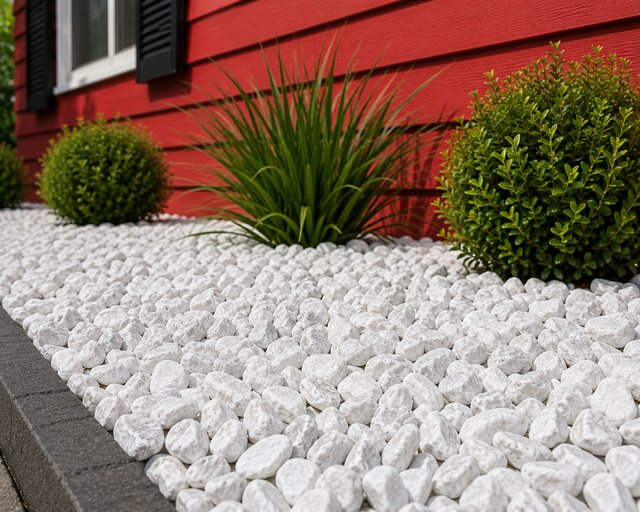
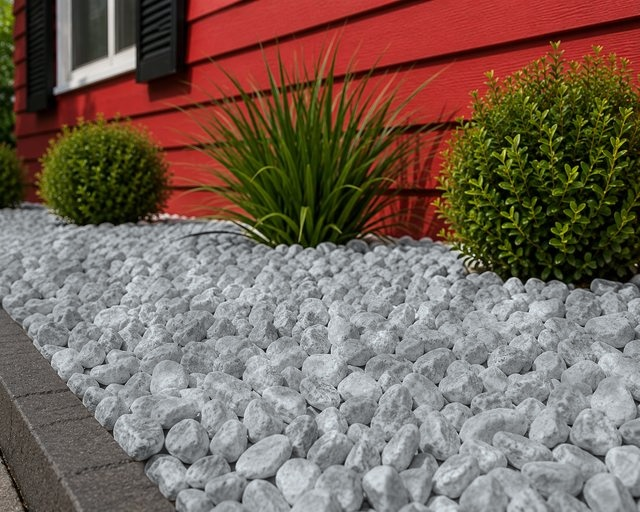
Hide trade prices from public pages; more realistic Ice pebble photo
Claude-Session: https://claude.ai/code/session_016GYj6wWWBFGdUQX8Qo2RUJ

diff --git a/public/trade.html b/public/trade.html
@@ -56,7 +56,7 @@
   <div class="tr-why">
     <h2>Why trade with <span>ADV</span></h2>
     <ul>
-      <li><b>Trade prices</b> on mulch, pebbles, sand, toppings, compost and firewood. Save up to $36 per m³.</li>
+      <li><b>Trade prices</b> on mulch, pebbles, sand, toppings, compost and firewood.</li>
       <li><b>Six trucks</b> running loads across 111 suburbs, with split trays for two materials per load.</li>
       <li><b>One call for big jobs.</b> Multi-unit sites and estates booked as one order.</li>
       <li><b>Talk to the yard.</b> <a href="tel:0397996399">(03) 9799 6399</a>, 320 Hallam Rd, Hampton Park.</li>
@@ -65,11 +65,10 @@
   </div>
 </div></section>
 <section class="tr-prices"><div class="tr-wrap">
-  <div class="tr-ph"><h2>Trade <span>price list</span></h2><span class="tr-pill">Prices include GST</span></div>
-  <div class="tr-table"><table>
-    <thead><tr><th>Product</th><th>Range</th><th class="r">Retail</th><th class="r">Trade</th><th class="r">You save</th></tr></thead>
-    <tbody><tr><td><b>Pine Bark - Blended Mulch</b></td><td class="tr-cat">Mulch</td><td class="r"><s>$98</s></td><td class="r"><b class="tp">$89</b> <small>per m³</small></td><td class="r"><span class="sv">$9</span></td></tr><tr><td><b>Playground Mulch</b></td><td class="tr-cat">Mulch</td><td class="r"><s>$115</s></td><td class="r"><b class="tp">$97.50</b> <small>per m³</small></td><td class="r"><span class="sv">$17.50</span></td></tr><tr><td><b>Redwood Mulch</b></td><td class="tr-cat">Mulch</td><td class="r"><s>$77.50</s></td><td class="r"><b class="tp">$67</b> <small>per m³</small></td><td class="r"><span class="sv">$10.50</span></td></tr><tr><td><b>Tree Mulch</b></td><td class="tr-cat">Mulch</td><td class="r"><s>$35</s></td><td class="r"><b class="tp">$25</b> <small>per m³</small></td><td class="r"><span class="sv">$10</span></td></tr><tr><td><b>Flat River 20-40mm</b></td><td class="tr-cat">Pebbles</td><td class="r"><s>$190</s></td><td class="r"><b class="tp">$180</b> <small>per m³</small></td><td class="r"><span class="sv">$10</span></td></tr><tr><td><b>Flat River Oversize</b></td><td class="tr-cat">Pebbles</td><td class="r"><s>$190</s></td><td class="r"><b class="tp">$180</b> <small>per m³</small></td><td class="r"><span class="sv">$10</span></td></tr><tr><td><b>Ocean Pearl 20-40mm</b></td><td class="tr-cat">Pebbles</td><td class="r"><s>$166</s></td><td class="r"><b class="tp">$149</b> <small>per m³</small></td><td class="r"><span class="sv">$17</span></td></tr><tr><td><b>Ocean Pearl 20mm</b></td><td class="tr-cat">Pebbles</td><td class="r"><s>$166</s></td><td class="r"><b class="tp">$149</b> <small>per m³</small></td><td class="r"><span class="sv">$17</span></td></tr><tr><td><b>Luna Pebbles 20-40mm</b></td><td class="tr-cat">Toppings</td><td class="r"><s>$140</s></td><td class="r"><b class="tp">$132</b> <small>per m³</small></td><td class="r"><span class="sv">$8</span></td></tr><tr><td><b>Quarter Minus 7mm</b></td><td class="tr-cat">Toppings</td><td class="r"><s>$135</s></td><td class="r"><b class="tp">$99</b> <small>per m³</small></td><td class="r"><span class="sv">$36</span></td></tr><tr><td><b>Organic Compost</b></td><td class="tr-cat">Compost &amp; Soil</td><td class="r"><s>$67.50</s></td><td class="r"><b class="tp">$50</b> <small>per m³</small></td><td class="r"><span class="sv">$17.50</span></td></tr><tr><td><b>White Brick Sand</b></td><td class="tr-cat">Sand</td><td class="r"><s>$122.50</s></td><td class="r"><b class="tp">$106</b> <small>per m³</small></td><td class="r"><span class="sv">$16.50</span></td></tr><tr><td><b>White Washed Sand</b></td><td class="tr-cat">Sand</td><td class="r"><s>$155</s></td><td class="r"><b class="tp">$135</b> <small>per m³</small></td><td class="r"><span class="sv">$20</span></td></tr><tr><td><b>Yellow Brick Sand</b></td><td class="tr-cat">Sand</td><td class="r"><s>$112.50</s></td><td class="r"><b class="tp">$99.50</b> <small>per m³</small></td><td class="r"><span class="sv">$13</span></td></tr><tr><td><b>Redgum Firewood</b></td><td class="tr-cat">Firewood</td><td class="r"><s>$275</s></td><td class="r"><b class="tp">$255</b> <small>per m³</small></td><td class="r"><span class="sv">$20</span></td></tr><tr><td><b>All Rounder Potting Mix 25L (pallet price)</b></td><td class="tr-cat">Bag Products</td><td class="r"><s>$7.95</s></td><td class="r"><b class="tp">$6.95</b> <small>each</small></td><td class="r"><span class="sv">$1</span></td></tr><tr><td><b>Joining Tape 15m</b></td><td class="tr-cat">Accessories</td><td class="r"><s>—</s></td><td class="r"><b class="tp">$65.95</b> <small>each</small></td><td class="r"><span class="sv">Trade only</span></td></tr><tr><td><b>Nails for artificial turf 5kg Pack (165)</b></td><td class="tr-cat">Accessories</td><td class="r"><s>—</s></td><td class="r"><b class="tp">$44.95</b> <small>each</small></td><td class="r"><span class="sv">Trade only</span></td></tr></tbody>
-  </table></div>
+  <div class="tr-lock">
+    <svg viewBox="0 0 24 24" aria-hidden="true"><rect x="4" y="10" width="16" height="11" rx="2"/><path d="M8 10V7a4 4 0 0 1 8 0v3"/></svg>
+    <div><h2>Trade <span>price list</span></h2><p>Trade prices are only shared with approved trade account holders. Apply above and we'll send your price list once your account is set up, or call <a href="tel:0397996399">(03) 9799 6399</a>.</p></div>
+  </div>
 </div></section>
 <section class="dw" id="drivers" aria-label="Drivers wanted"><div class="dw-in">
   <div class="dw-l">

diff --git a/public/index.html b/public/index.html
@@ -194,9 +194,8 @@
   <div class="tr-copy">
     <span class="tr-pill">ADV Trade</span>
     <h2>Trade prices.<br><span>One call.</span></h2>
-    <p>For builders, landscapers, developers and contractors. Open a trade account to see trade pricing on bulk materials and order for every site from one place.</p>
+    <p>For builders, landscapers, developers and contractors. Approved trade accounts get trade pricing on bulk materials and order for every site from one place.</p>
     <ul class="tr-feats"><li><span class="tr-ic"><svg viewBox="0 0 24 24" aria-hidden="true"><path d="M3 12l9-9h8v8l-9 9z"/><circle cx="16" cy="8" r="1.6"/></svg></span><span><b>Trade pricing</b>Lower prices on mulch, pebbles, sand, toppings and more.</span></li><li><span class="tr-ic"><svg viewBox="0 0 24 24" aria-hidden="true"><path d="M2 7h11v9H2zM13 10h4l3 3v3h-7"/><circle cx="6" cy="18" r="1.8"/><circle cx="17" cy="18" r="1.8"/></svg></span><span><b>Split loads</b>Two materials in one truck, one delivery fee per load.</span></li><li><span class="tr-ic"><svg viewBox="0 0 24 24" aria-hidden="true"><path d="M3 3h7v7H3zM14 3h7v7h-7zM3 14h7v7H3zM14 14h7v7h-7z"/></svg></span><span><b>Multi-unit jobs</b>Twelve yards or one: book the whole job in one order.</span></li></ul>
-    <div class="tr-ex"><div><span>Tree Mulch</span><span><s>$35</s><b>$25</b><small>per m³</small></span></div><div><span>Organic Compost</span><span><s>$67.50</s><b>$50</b><small>per m³</small></span></div><div><span>Quarter Minus 7mm</span><span><s>$135</s><b>$99</b><small>per m³</small></span></div></div>
     <div class="tr-cta"><a class="tr-btn" href="/trade.html#apply">Apply for a trade account</a><a class="tr-btn ghost" href="/trade.html#login">Trade log in</a></div>
   </div>
   <div class="tr-anim"><div data-adv-units="1" data-music="/trade/units-music.mp3"></div></div>

diff --git a/public/site.css b/public/site.css
@@ -427,3 +427,7 @@ body{background:#fff}
 @keyframes gcShine{0%{transform:translateX(-120%)}22%,100%{transform:translateX(120%)}}
 .sx-gift .gc.live .gc-card:hover{box-shadow:0 22px 40px rgba(0,0,0,.38)}
 @media(prefers-reduced-motion:reduce){.sx-gift .gc-card{transition:none!important;opacity:1!important}.sx-gift .gc-card::after{display:none}}
+.tr-lock{display:flex;gap:22px;align-items:center;background:#fff;border:3px dashed #1A1A1A;border-radius:14px;padding:26px 30px}
+.tr-lock svg{flex:none;width:54px;height:54px;fill:none;stroke:var(--adv);stroke-width:2.2}
+.tr-lock h2{margin:0 0 6px;font:800 40px/1 var(--cond);text-transform:uppercase}.tr-lock h2 span{color:var(--adv)}
+.tr-lock p{margin:0;font-size:17px;max-width:720px}

diff --git a/tools/pages.py b/tools/pages.py
@@ -276,9 +276,8 @@ TRADE_SECTION = f"""
   <div class="tr-copy">
     <span class="tr-pill">ADV Trade</span>
     <h2>Trade prices.<br><span>One call.</span></h2>
-    <p>For builders, landscapers, developers and contractors. Open a trade account to see trade pricing on bulk materials and order for every site from one place.</p>
+    <p>For builders, landscapers, developers and contractors. Approved trade accounts get trade pricing on bulk materials and order for every site from one place.</p>
     <ul class="tr-feats">{tfeat('tag', 'Trade pricing', 'Lower prices on mulch, pebbles, sand, toppings and more.')}{tfeat('truck', 'Split loads', 'Two materials in one truck, one delivery fee per load.')}{tfeat('grid', 'Multi-unit jobs', 'Twelve yards or one: book the whole job in one order.')}</ul>
-    <div class="tr-ex">{''.join(f'<div><span>{n}</span><span><s>{r}</s><b>{t}</b><small>per m³</small></span></div>' for n, r, t in TEX)}</div>
     <div class="tr-cta"><a class="tr-btn" href="/trade.html#apply">Apply for a trade account</a><a class="tr-btn ghost" href="/trade.html#login">Trade log in</a></div>
   </div>
   <div class="tr-anim"><div data-adv-units="1" data-music="/trade/units-music.mp3"></div></div>
@@ -340,7 +339,7 @@ TRADE_PAGE = f"""
   <div class="tr-why">
     <h2>Why trade with <span>ADV</span></h2>
     <ul>
-      <li><b>Trade prices</b> on mulch, pebbles, sand, toppings, compost and firewood. Save up to $36 per m³.</li>
+      <li><b>Trade prices</b> on mulch, pebbles, sand, toppings, compost and firewood.</li>
       <li><b>Six trucks</b> running loads across 111 suburbs, with split trays for two materials per load.</li>
       <li><b>One call for big jobs.</b> Multi-unit sites and estates booked as one order.</li>
       <li><b>Talk to the yard.</b> <a href="tel:0397996399">(03) 9799 6399</a>, 320 Hallam Rd, Hampton Park.</li>
@@ -349,11 +348,10 @@ TRADE_PAGE = f"""
   </div>
 </div></section>
 <section class="tr-prices"><div class="tr-wrap">
-  <div class="tr-ph"><h2>Trade <span>price list</span></h2><span class="tr-pill">Prices include GST</span></div>
-  <div class="tr-table"><table>
-    <thead><tr><th>Product</th><th>Range</th><th class="r">Retail</th><th class="r">Trade</th><th class="r">You save</th></tr></thead>
-    <tbody>{rows}</tbody>
-  </table></div>
+  <div class="tr-lock">
+    <svg viewBox="0 0 24 24" aria-hidden="true"><rect x="4" y="10" width="16" height="11" rx="2"/><path d="M8 10V7a4 4 0 0 1 8 0v3"/></svg>
+    <div><h2>Trade <span>price list</span></h2><p>Trade prices are only shared with approved trade account holders. Apply above and we'll send your price list once your account is set up, or call <a href="tel:0397996399">(03) 9799 6399</a>.</p></div>
+  </div>
 </div></section>
 """
 TRADE_JS = UNITS_LOADER + """<script>(function(){
